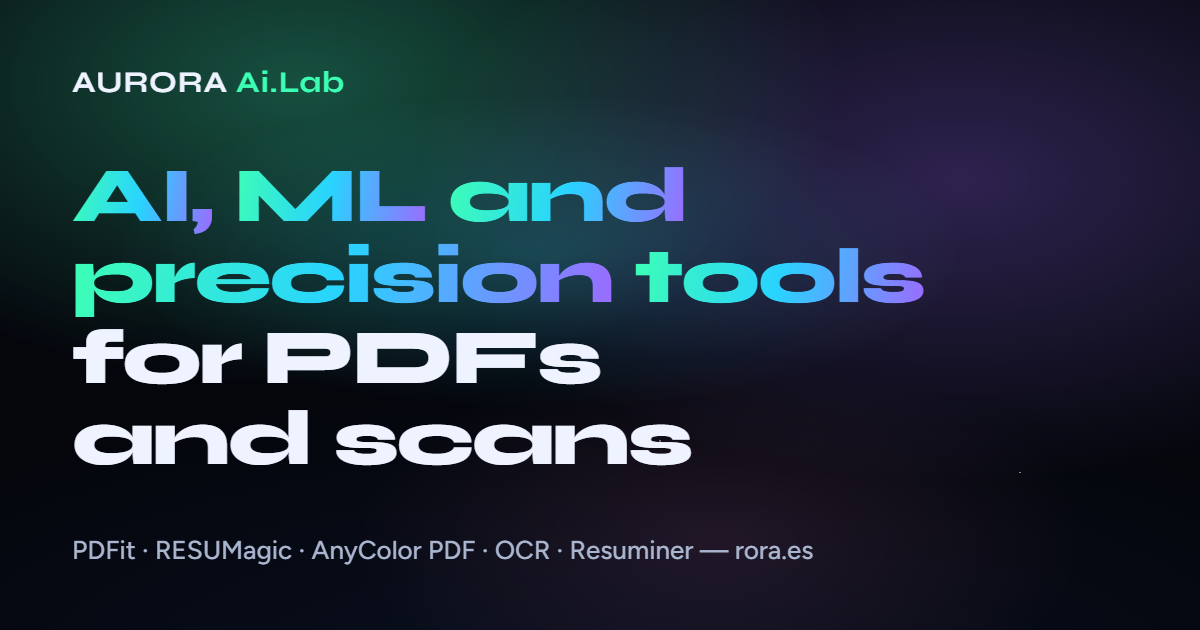
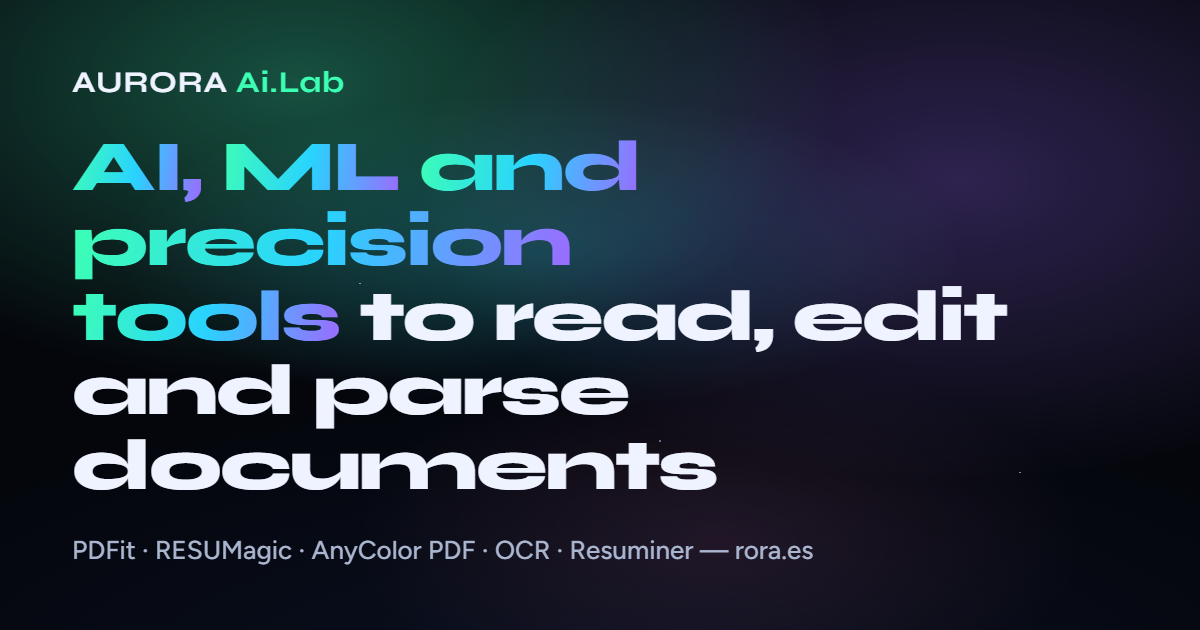
Home page: headline about reading, editing and parsing documents
Claude-Session: https://claude.ai/code/session_018wxw8nUirvxwf4q119Hca8

Changed region(s): [[0.0617, 0.2111, 0.8633, 0.7841]]

diff --git a/es/index.html b/es/index.html
@@ -3,7 +3,7 @@
 <head>
 <meta charset="utf-8">
 <meta name="viewport" content="width=device-width, initial-scale=1, viewport-fit=cover">
-<title>AURORA Ai.Lab — IA, ML y herramientas de precisión para PDF y escaneos</title>
+<title>AURORA Ai.Lab — IA, ML y herramientas de precisión para leer, editar y analizar documentos</title>
 <meta name="description" content="AURORA Ai.Lab crea herramientas de documentos. Para todos: edición de PDF en línea que conserva fuentes y maquetación, edición de currículos y recoloreado de PDF. Para empresas: OCR para PDF y escaneos y análisis de currículos a XML para ATS.">
 <link rel="canonical" href="https://rora.es/es/">
 <link rel="alternate" hreflang="en" href="https://rora.es/">
@@ -12,7 +12,7 @@
 <meta property="og:type" content="website">
 <meta property="og:site_name" content="AURORA Ai.Lab">
 <meta property="og:locale" content="es_ES">
-<meta property="og:title" content="AURORA Ai.Lab — IA, ML y herramientas de precisión para PDF y escaneos">
+<meta property="og:title" content="AURORA Ai.Lab — IA, ML y herramientas de precisión para leer, editar y analizar documentos">
 <meta property="og:description" content="Edición de PDF en línea que conserva fuentes y maquetación, edición de currículos y recoloreado de PDF. OCR y análisis de currículos para empresas.">
 <meta property="og:url" content="https://rora.es/es/">
 <meta property="og:image" content="https://rora.es/og.png">
@@ -40,7 +40,7 @@
   </header>
 
   <main class="hero">
-    <h1><span class="line"><span class="w hl" style="--i:0">IA,</span> <span class="w hl" style="--i:1">ML</span> <span class="w hl" style="--i:2">y</span> <span class="w hl" style="--i:3">herramientas</span> <span class="w hl" style="--i:4">de</span> <span class="w hl" style="--i:5">precisión</span></span> <span class="line"><span class="w" style="--i:6">para</span> <span class="w" style="--i:7">PDF</span> <span class="w" style="--i:8">y</span> <span class="w" style="--i:9">escaneos</span></span><span class="scan" aria-hidden="true"></span></h1>
+    <h1><span class="line"><span class="w hl" style="--i:0">IA,</span> <span class="w hl" style="--i:1">ML</span> <span class="w hl" style="--i:2">y</span> <span class="w hl" style="--i:3">herramientas</span> <span class="w hl" style="--i:4">de</span> <span class="w hl" style="--i:5">precisión</span></span> <span class="line"><span class="w" style="--i:6">para</span> <span class="w" style="--i:7">leer,</span> <span class="w" style="--i:8">editar</span> <span class="w" style="--i:9">y</span> <span class="w" style="--i:10">analizar</span> <span class="w" style="--i:11">documentos</span></span><span class="scan" aria-hidden="true"></span></h1>
   </main>
 
   <section class="products" aria-label="Productos">

diff --git a/index.html b/index.html
@@ -3,7 +3,7 @@
 <head>
 <meta charset="utf-8">
 <meta name="viewport" content="width=device-width, initial-scale=1, viewport-fit=cover">
-<title>AURORA Ai.Lab — AI, ML and precision tools for PDFs and scans</title>
+<title>AURORA Ai.Lab — AI, ML and precision tools to read, edit and parse documents</title>
 <meta name="description" content="AURORA Ai.Lab builds document tools. For everyone: online PDF editing that keeps fonts and layout, resume editing and PDF recolouring. For business: OCR for PDFs and scans and resume parsing into XML for ATS.">
 <link rel="canonical" href="https://rora.es/">
 <link rel="alternate" hreflang="en" href="https://rora.es/">
@@ -11,7 +11,7 @@
 <link rel="alternate" hreflang="x-default" href="https://rora.es/">
 <meta property="og:type" content="website">
 <meta property="og:site_name" content="AURORA Ai.Lab">
-<meta property="og:title" content="AURORA Ai.Lab — AI, ML and precision tools for PDFs and scans">
+<meta property="og:title" content="AURORA Ai.Lab — AI, ML and precision tools to read, edit and parse documents">
 <meta property="og:description" content="Online PDF editing that keeps fonts and layout, resume editing and PDF recolouring. OCR and resume parsing for business.">
 <meta property="og:url" content="https://rora.es/">
 <meta property="og:image" content="https://rora.es/og.png">
@@ -39,7 +39,7 @@
   </header>
 
   <main class="hero">
-    <h1><span class="line"><span class="w hl" style="--i:0">AI,</span> <span class="w hl" style="--i:1">ML</span> <span class="w hl" style="--i:2">and</span> <span class="w hl" style="--i:3">precision</span> <span class="w hl" style="--i:4">tools</span></span> <span class="line"><span class="w" style="--i:5">for</span> <span class="w" style="--i:6">PDFs</span> <span class="w" style="--i:7">and</span> <span class="w" style="--i:8">scans</span></span><span class="scan" aria-hidden="true"></span></h1>
+    <h1><span class="line"><span class="w hl" style="--i:0">AI,</span> <span class="w hl" style="--i:1">ML</span> <span class="w hl" style="--i:2">and</span> <span class="w hl" style="--i:3">precision</span> <span class="w hl" style="--i:4">tools</span></span> <span class="line"><span class="w" style="--i:5">to</span> <span class="w" style="--i:6">read,</span> <span class="w" style="--i:7">edit</span> <span class="w" style="--i:8">and</span> <span class="w" style="--i:9">parse</span> <span class="w" style="--i:10">documents</span></span><span class="scan" aria-hidden="true"></span></h1>
   </main>
 
   <section class="products" aria-label="Products">
